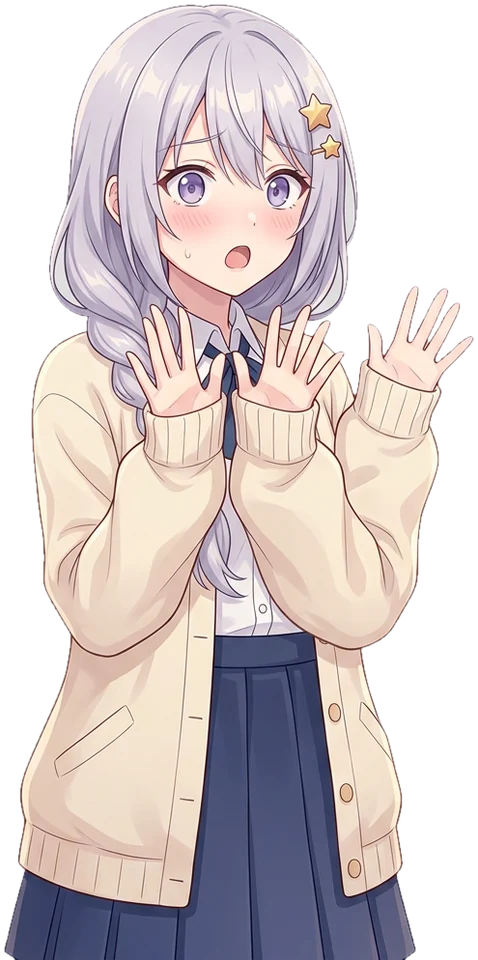
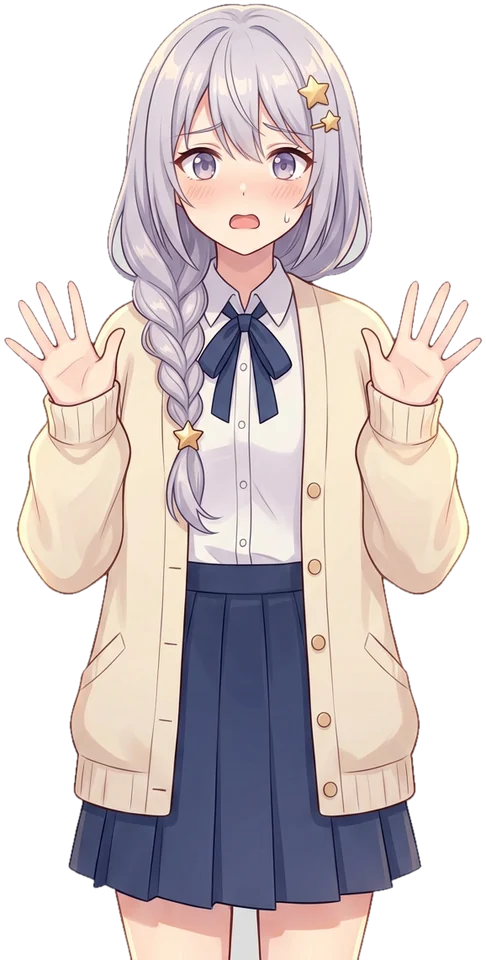
game-149 v1.1.1: Lys's surprised sprite had four hands
Repainted from her character reference with fal nano-banana-2/edit, asking for
exactly two arms and two hands in the same apologetic pose, and cut out with
dev/art/export.py's own cutout code. The other sprites were checked on a
contact sheet.

Claude-Session: https://claude.ai/code/session_01ScowizFRTUqunv8AXxrvy5

diff --git a/js/gamedata.js b/js/gamedata.js
@@ -2326,7 +2326,7 @@ const games = [
         description: "An upbeat anime visual novel RPG in three.js. Kai's only magic is that he can hear other people's spells as songs and sing them back. At Lumina Academy, a castle school on a floating island, he makes four friends (fiery Hana, shy star mage Lys, explosive alchemist Pip and his wind-mage roommate Ren), plays their six magical mini-games, collects twelve hidden Echo Charms, gives gifts, and grows close to one of them through heart events that end in romance or best friendship. But students are falling into a magicless sleep, and the trail leads from an archive full of cult marks to the kindly, candy-giving principal. On the night of the Starfall Festival the Hollow Moon rises, your closest friend is taken, and you race the moon across the island to free every caged student before facing the Hollow Choir's master, where Kai's Echo turns every stolen spell back on him. Five chapters, 74 scenes, turn-based battles with Meshy-modelled and animated characters on a 3D campus, fal-painted art, and ElevenLabs music, sound and voices.",
         icon: '\uD83C\uDF19',
         folder: 'game-149',
-        version: '1.1.0',
+        version: '1.1.1',
         cssClass: 'echoheart-academy',
         genre: 'story',
         tags: [

diff --git a/game-149/js/config.js b/game-149/js/config.js
@@ -1,6 +1,6 @@
 // Echoheart Academy — tuning and constants. Shared by the sim, the view and the tests.
 
-export const VERSION = '1.1.0';
+export const VERSION = '1.1.1';
 export const SAVE_KEY = 'echoheart-academy.v1';
 
 export const STEP = 1 / 120;              // fixed simulation step (s)

diff --git a/status.md b/status.md
@@ -156,7 +156,7 @@ Completion audit of all games in this repo, based on each game's own game-plan.m
 | [game-146](game-146/index.html) | JINGLE POP | **Complete** | v1.0.0. A Christmas bubble shooter in three.js, sim/view layout ([game-plan.md](game-146/game-plan.md)). Juniper the elf wins back the ornaments Grimwick blew out of Santa's workshop: a hex grid with exact traced shots (ray against circle, wall bounces), matching, drops and a ceiling that comes down under shot pressure (misses count double). 36 levels in six chapters built from a shape, a paint and specials by each level's own seed (a garland band and colour-group caps so one pop can't drop a board); presents, coal, frozen ornaments, golden bells, prism baubles; a swap tray of one, two then three ornaments; eight power-ups (Pudding Bomb, Rainbow Star, Candy Cane Striker, Gingerbread Break, Hot Cocoa, Jingle Bell, Tinsel Garland, North Star) from presents and a spirit meter; the endless Blizzard; a voiced story with an ending. Media all from ElevenLabs (the fal account was out of credit): 20 images (Nano Banana 2.1: title, six chapter backdrops, the elf in three poses, portraits, a power-up sheet, the ending, icon, avatar), 4 music loops and 2 stings, 16 effects, 25 voice lines. `dev/simtest.mjs` (purity, every rule, special and power-up, all 36 levels proved, determinism and mid-flight save round trips, bots at three skills on every level with asserted bands, the Blizzard) and `dev/browsertest.mjs` (desktop by real mouse and keys through story, map, play, pause, swaps, power-ups, Continue, a win, a loss and the Blizzard; touch-only phones both ways; blocked storage). Open: balance and par are the bot's; nobody has played it by hand; only run under SwiftShader, not on a real GPU or phone |
 | [game-147](game-147/index.html) | Inn Over My Head | **Complete** | v1.1.0 (the inn rebuilt as a readable textured dollhouse with zoom-to-room, sun and contact shadows, 14 more Meshy props, textured battle islands, styled dropdowns, where to find each ingredient; fixed: the stir needle in the Kitchen panel jumped between three spots, and battle damage landed before the swing connected). v1.0.1 (fixes: the quest tracker's Desk/Kitchen/Ledger/Adventure buttons did nothing; two guests could share a name and look like one person booking two rooms). A cozy anime RPG and inn-management hybrid in three.js, sim/view layout ([game-plan.md](game-147/game-plan.md), which is also the full design document: GDD, cast, formulas, wireframes, technical plan). The inn: rooms and dust bunnies (click them), Sparkle, guests with requests, tips while they stay, a cooking stir mini-game with quality, a courtyard, staff who work while you adventure (Cook, Concierge, Gardener, Housekeeper), time-away earnings, a shop, decor, five debt installments with gentle late fees. Four strangers to win over (room, favourite meal, a favour), joining as party, staff or both. 3/4 turn-based battles: a speed timeline, five elements, poise and stagger, combo links, a chain gauge, 12 solo/duo/trio chain attacks, items, defend, a comic flee, auto-battle with three presets; bonds with vignettes, synergy and decor favourites; a five-chapter voiced story. Media: 75 Meshy models from ElevenLabs reference art (image-to-3D), 12 rigged by Meshy with 90 library clips; ElevenLabs title, backdrops, ending, portraits, item sheets, 4 music tracks, 2 jingles, 22 effects, 63 voice lines; item icons rendered from the Meshy models. `dev/simtest.mjs` (purity, every rule, every skill and chain, determinism and mid-battle save round trips, the whole game by bot over many seeds with the balance band asserted) and `dev/browsertest.mjs` (desktop by real mouse and keys: a dust bunny clicked in 3D, check-in, a perfect stir by Space, a battle by keys, the auto-battle, save and Continue; touch-only phones both ways; blocked storage). Open: balance is the bot's; nobody has played it by hand; only run under SwiftShader, not on a real GPU or phone; Puffcap and the blob- and animal-shaped monsters can't take a humanoid rig, so they move procedurally |
 | [game-148](game-148/index.html) | Glimmerglade | **Complete** | v1.0.1 (fixed: wisps flew straight through the glass of the bell-flowers; pours now go up, over and down the middles and pass behind flowers in the way; every path is audited in the browser test). v1.0.0. A gentle fairy sorting puzzle in vanilla JS and Canvas 2D, sim/view layout ([game-plan.md](game-148/game-plan.md)). Tap or drag to tip the top run of glowing wisps between glass bell-flowers; four of a colour blooms and wakes the creature that sits on the flower. 50 levels in five glades, built from their number and proved solvable by a DFS solver over the game's own pour rule (rejected and regenerated otherwise); mist (hidden wisps), brambles (open after N blooms), acorn cups (hold two, never bloom). Free undo that stops at a bloom, three firefly hints (the solver's next pour), one sprout (caps stars at two), stars against the solver's tightened par, a nine-creature journal, a daily dewdrop with a streak, endless dreams, a voiced story and an ending. Media, all ElevenLabs: title, five glade backdrops, ending, two portraits, three Lumi poses, ten creatures and four tool icons (Nano Banana 2.1, sprites cut out by BiRefNet), four music themes, a win jingle, 13 effects, an ambience loop, 25 voice lines (Libby as Lumi, Nan as Willow), with captions. `dev/simtest.mjs` (purity, every rule, all 50 levels replayed to a win through act(), determinism and save round trips, a perfect bot 3-starring every level and a casual bot finishing every level, free-play seeds) and `dev/browsertest.mjs` (desktop by real clicks, a drag, keys and tools; touch-only phones both ways with a right-hand tool rail in landscape; blocked storage; the audio decodes and the music plays). Open: balance is the bots' (casual ≈ 2 stars, flat across chapters); nobody has played it by hand; only run in headless Chromium, not on a real phone |
-| [game-149](game-149/index.html) | Echoheart Academy | **Complete** | v1.1.0. An anime visual novel RPG in three.js, sim/view layout ([game-plan.md](game-149/game-plan.md)). 11 days in 5 chapters (74 scenes in a small compiled line language: choices, flags, calls, battles and mini-games from the script), a 3D campus overmap with free afternoons and evenings (a guide arrow points to the next place; buildings and trees fade while they hide Kai), four friends with five hangouts and three heart events each (the last offers romance or best friendship), gifts, a Festival dance, six mini-games (Resonance, Rune Strokes, Potion Brewing, Star Catcher, Sky Rings, Fireball Gallery), charge-time battles where Kai's Echo copies the last spell anyone cast (foes' too), 12 Echo Charms and four side quests, and a climax against a 360 s Hollow Moon clock (four cages; the boss grows stronger for every student left), a finale and five epilogues. Media: 70 fal Nano Banana 2 paintings (backgrounds, 32 expression sprites, CGs, icons), 15 Meshy models (11 rigged, 91 library clips), ElevenLabs 6 themes, 16 effects, 50 voice lines in 8 voices ([dev/art](game-149/dev/art/README.md), [dev/meshy](game-149/dev/meshy/README.md), [dev/audio](game-149/dev/audio/README.md)). `dev/simtest.mjs` (~460 checks: purity, every scene and the assets it names, the VN language, bonds, battles, mini-game bots, a flood-fill reachability proof, the calendar, the climax, determinism and save round trips, whole games by the bot at three skills and four favourites with asserted bands) and `dev/browsertest.mjs` (desktop by real keys and clicks from the title to the ending; touch-only phones both ways; blocked storage). Open: balance is the bot's; nobody has played it by hand; only run in headless Chromium |
+| [game-149](game-149/index.html) | Echoheart Academy | **Complete** | v1.1.1. An anime visual novel RPG in three.js, sim/view layout ([game-plan.md](game-149/game-plan.md)). 11 days in 5 chapters (74 scenes in a small compiled line language: choices, flags, calls, battles and mini-games from the script), a 3D campus overmap with free afternoons and evenings (a guide arrow points to the next place; buildings and trees fade while they hide Kai), four friends with five hangouts and three heart events each (the last offers romance or best friendship), gifts, a Festival dance, six mini-games (Resonance, Rune Strokes, Potion Brewing, Star Catcher, Sky Rings, Fireball Gallery), charge-time battles where Kai's Echo copies the last spell anyone cast (foes' too), 12 Echo Charms and four side quests, and a climax against a 360 s Hollow Moon clock (four cages; the boss grows stronger for every student left), a finale and five epilogues. Media: 70 fal Nano Banana 2 paintings (backgrounds, 32 expression sprites, CGs, icons), 15 Meshy models (11 rigged, 91 library clips), ElevenLabs 6 themes, 16 effects, 50 voice lines in 8 voices ([dev/art](game-149/dev/art/README.md), [dev/meshy](game-149/dev/meshy/README.md), [dev/audio](game-149/dev/audio/README.md)). `dev/simtest.mjs` (~460 checks: purity, every scene and the assets it names, the VN language, bonds, battles, mini-game bots, a flood-fill reachability proof, the calendar, the climax, determinism and save round trips, whole games by the bot at three skills and four favourites with asserted bands) and `dev/browsertest.mjs` (desktop by real keys and clicks from the title to the ending; touch-only phones both ways; blocked storage). Open: balance is the bot's; nobody has played it by hand; only run in headless Chromium |
 | [game-142](game-142/index.html) | Kaboom Keep | **Complete** | v1.1.0 (48 castles in four regions from a proved castle generator, Endless Siege, a fix for a screen with no menu after clearing a castle). A whimsical third-person physics cannon game in three.js, sim/view layout ([game-plan.md](game-142/game-plan.md)). A 3D rigid-body engine written for the game ([physics.js](game-142/js/sim/physics.js): boxes and spheres, separating-axis box-box with face clipping, sequential impulses with warm starting, shock propagation for tall stacks, island sleeping, a swept test so cannonballs can't tunnel), pure and seeded so a save is JSON and a mid-collapse save plays on identically. Twelve hand-built castles from a kit (running-bond walls, interlocking square towers, round towers, slabs, crenels, cone roofs, crates) plus 36 from a castle generator ([castlegen.js](game-142/js/sim/castlegen.js)) in four regions, and Endless Siege; every campaign castle and a sample of Endless ones is proved to stand on its own with every block awake and to be cleared by the bot. Blocks crack in two, ice shatters, crates go off in chains; knights, a prince, a wizard and two kings are bonked by tipping, hits or falls; five cannonballs (Iron, Boom with an early-detonate trick, Triple Trouble that splits, Big Bertha, Boing). Drag to aim with a predicted arc, tap to fire, a chase camera, slow motion on the big moments. fal art: 9 textures, 3 skies, 3 region banners, title art, 5 portraits ([dev/art](game-142/dev/art/README.md)); ElevenLabs: 4 music pieces, 15 effects, 18 voice lines from 4 voices ([dev/audio](game-142/dev/audio/README.md)); synth fallbacks. [simtest.mjs](game-142/dev/simtest.mjs) (physics, every rule, all castles standing, determinism and a mid-collapse save round trip, the bot clearing every castle at two skills with asserted bands) and [browsertest.mjs](game-142/dev/browsertest.mjs) (desktop by real keys, mouse drags and clicks through map, intro, play, pause, save/continue, results; two touch-only phones with real drags and taps; blocked storage; every clip decodes, music plays). **Open:** balance tuned by a bot (the perfect one clears every castle, most in one to three shots, so humans may find it easy); only run under SwiftShader, not a real GPU or phone, where a big collapse may cost frames; nobody has listened to the audio in order or played it through by hand. |
 
 ## Key takeaways

diff --git a/game-149/dev/art/README.md b/game-149/dev/art/README.md
@@ -6,7 +6,7 @@ about 70 images at $0.08 each (≈ $5.70). The shared style prompts are in [styl
 | Set | How | Files |
 |---|---|---|
 | Character references | `nano-banana-2`, 2:3, 1K: full body in an A-pose on flat light grey, one per character (Kai, Hana, Lys, Pip, Ren, Veymont, Hollow Veymont, Graves, Theo, Yuki, the acolyte, the armor; Mochi, the wisp and the gargoyle at 1:1). They are the identity for everything else, and Meshy's input. | not shipped (in the scratch folder) |
-| Expression sprites | `nano-banana-2/edit` from each reference: "redraw this exact character as a waist-up visual novel sprite … expression and pose: …", 3:4. 32 sprites. | `art/spr/<who>-<expr>.webp` (960 px tall), `art/spr/mochi.webp` |
+| Expression sprites | `nano-banana-2/edit` from each reference: "redraw this exact character as a waist-up visual novel sprite … expression and pose: …", 3:4. 32 sprites. `lys-surprised` was painted again in v1.1.1: the first one had four hands; the new prompt also says "exactly two arms and exactly two hands, each with five fingers". | `art/spr/<who>-<expr>.webp` (960 px tall), `art/spr/mochi.webp` |
 | Backgrounds | `nano-banana-2`, 16:9, 1K, the background style prompt ("never draw any people"). 17 places. | `art/bg/*.webp` |
 | CGs | `nano-banana-2/edit` with the characters' references as inputs (the title used six, the ending eight): the title, four heart events, the reveal, the ending. The Hana CG came back with two Chinese characters on the chestnut bag; one more edit removed them. | `art/cg/*.webp` |
 | Item icons | two 4 × 4 sheets at 2K (`icons-a`, `icons-b`), cut per cell. | `art/icons/*.webp` (128 px) |

diff --git a/CHANGELOG.md b/CHANGELOG.md
@@ -7,6 +7,9 @@ and this project adheres to [Semantic Versioning](https://semver.org/spec/v2.0.0
 
 ## [Unreleased]
 
+### Fixed
+- **Echoheart Academy** (game-149) v1.1.1: Lys's surprised sprite (her first line, when the book slips) had four hands: two raised palms in front of her chest and two more beside them. It was repainted from her character reference with fal Nano Banana 2 (edit), asking for exactly two arms and two hands in the same "oh no, sorry!" pose, and cut out with the same `dev/art/export.py` code as the other sprites. The other 32 sprites were checked by eye on a contact sheet and have the right number of hands.
+
 ### Added
 - **Echoheart Academy** (game-149) v1.1.0: finding your way on the campus. A gold arrow on the ground at Kai's feet points to where the story wants you next, and a matching arrow bobs over that place's door. On the first day it points to the nearest classmate you haven't met, then to the Dormitory. In free time it points to a quest you can hand in, then a friend with a heart event waiting, then the friend you're closest to. On the night of the Hollow Moon it turns violet and points to the nearest caged student, then to the Principal's Tower. The target comes from a pure `guidePlace(G)` in [js/sim/game.js](game-149/js/sim/game.js), so the sim test checks it (including that a whole bot game always has a real place to point at in free time). Buildings, trees, the gate arch and the fountain now fade to a ghost while they stand between the camera and Kai, and come back when he walks out ([js/view/campus.js](game-149/js/view/campus.js)); the browser test walks Kai behind the Great Hall to check it.
 

diff --git a/game-149/game-plan.md b/game-149/game-plan.md
@@ -173,6 +173,9 @@ touches, and with storage blocked.
 
 ## Changelog
 
+### v1.1.1 (2026-11-25)
+- Lys's surprised sprite had four hands; repainted (fal `nano-banana-2/edit` from her reference) with two.
+
 ### v1.1.0 (2026-11-25)
 - A guide arrow on the campus: a chevron at Kai's feet and a marker over the door, pointing at `guidePlace(G)` (pure,
   in `js/sim/game.js`): unmet classmates then the dorm on day one; quest turn-ins, waiting heart events, then the
